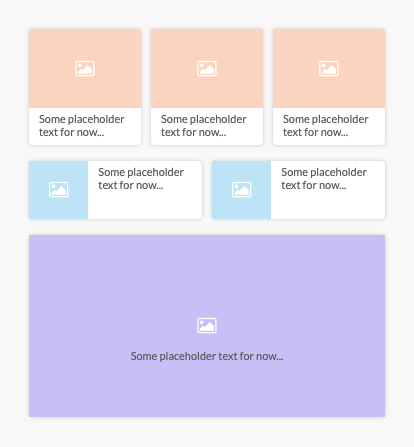
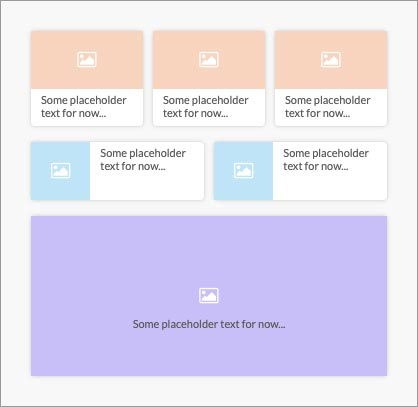
fixed grid elements to not use row span

diff --git a/Solutions/Lesson3/styles/training_styles.css b/Solutions/Lesson3/styles/training_styles.css
@@ -1,5 +1,5 @@
 /* Training 1 */
-/* Social */
+/* Social Sharing */
 
 @container (max-width: 370px) {
     .training-container:nth-child(1) .container>span {
@@ -77,15 +77,7 @@
 }
 
 /* Training 4 */
-/* Vertical 1D */
-
-.t-grid-container>*:is(:nth-child(4), :nth-child(5)) {
-    grid-row: span 1;
-}
-
-.t-grid-container>*:nth-child(6) {
-    grid-row: span 3;
-}
+/* Grid Elements */
 
 @container (min-width: 170px) {
 
@@ -102,6 +94,7 @@
 
     .t-grid-container .card-image {
         background-color: var(--bg3);
+        padding: 20cqi 0;
     }
 
     .t-grid-container .card {
@@ -113,12 +106,7 @@
     }
 
     .t-grid-container .card-text {
-        /* align-self: end; */
         justify-self: center;
-        margin-top: 32%;
+        margin-top: calc(20cqi + 30px);
     }
 }
-
-/* Training 5 */
-/* Masonry Horizontal */
-.training-container:nth-child(5) .container {}

diff --git a/Lesson3/styles/base_styles.css b/Lesson3/styles/base_styles.css
@@ -182,7 +182,6 @@
 
 .t-grid-container>* {
     grid-column: span 2;
-    grid-row: span 2;
 }
 
 .t-grid-container>*:nth-child(4),

diff --git a/Solutions/Lesson3/styles/base_styles.css b/Solutions/Lesson3/styles/base_styles.css
@@ -182,7 +182,6 @@
 
 .t-grid-container>* {
     grid-column: span 2;
-    grid-row: span 2;
 }
 
 .t-grid-container>*:nth-child(4),
